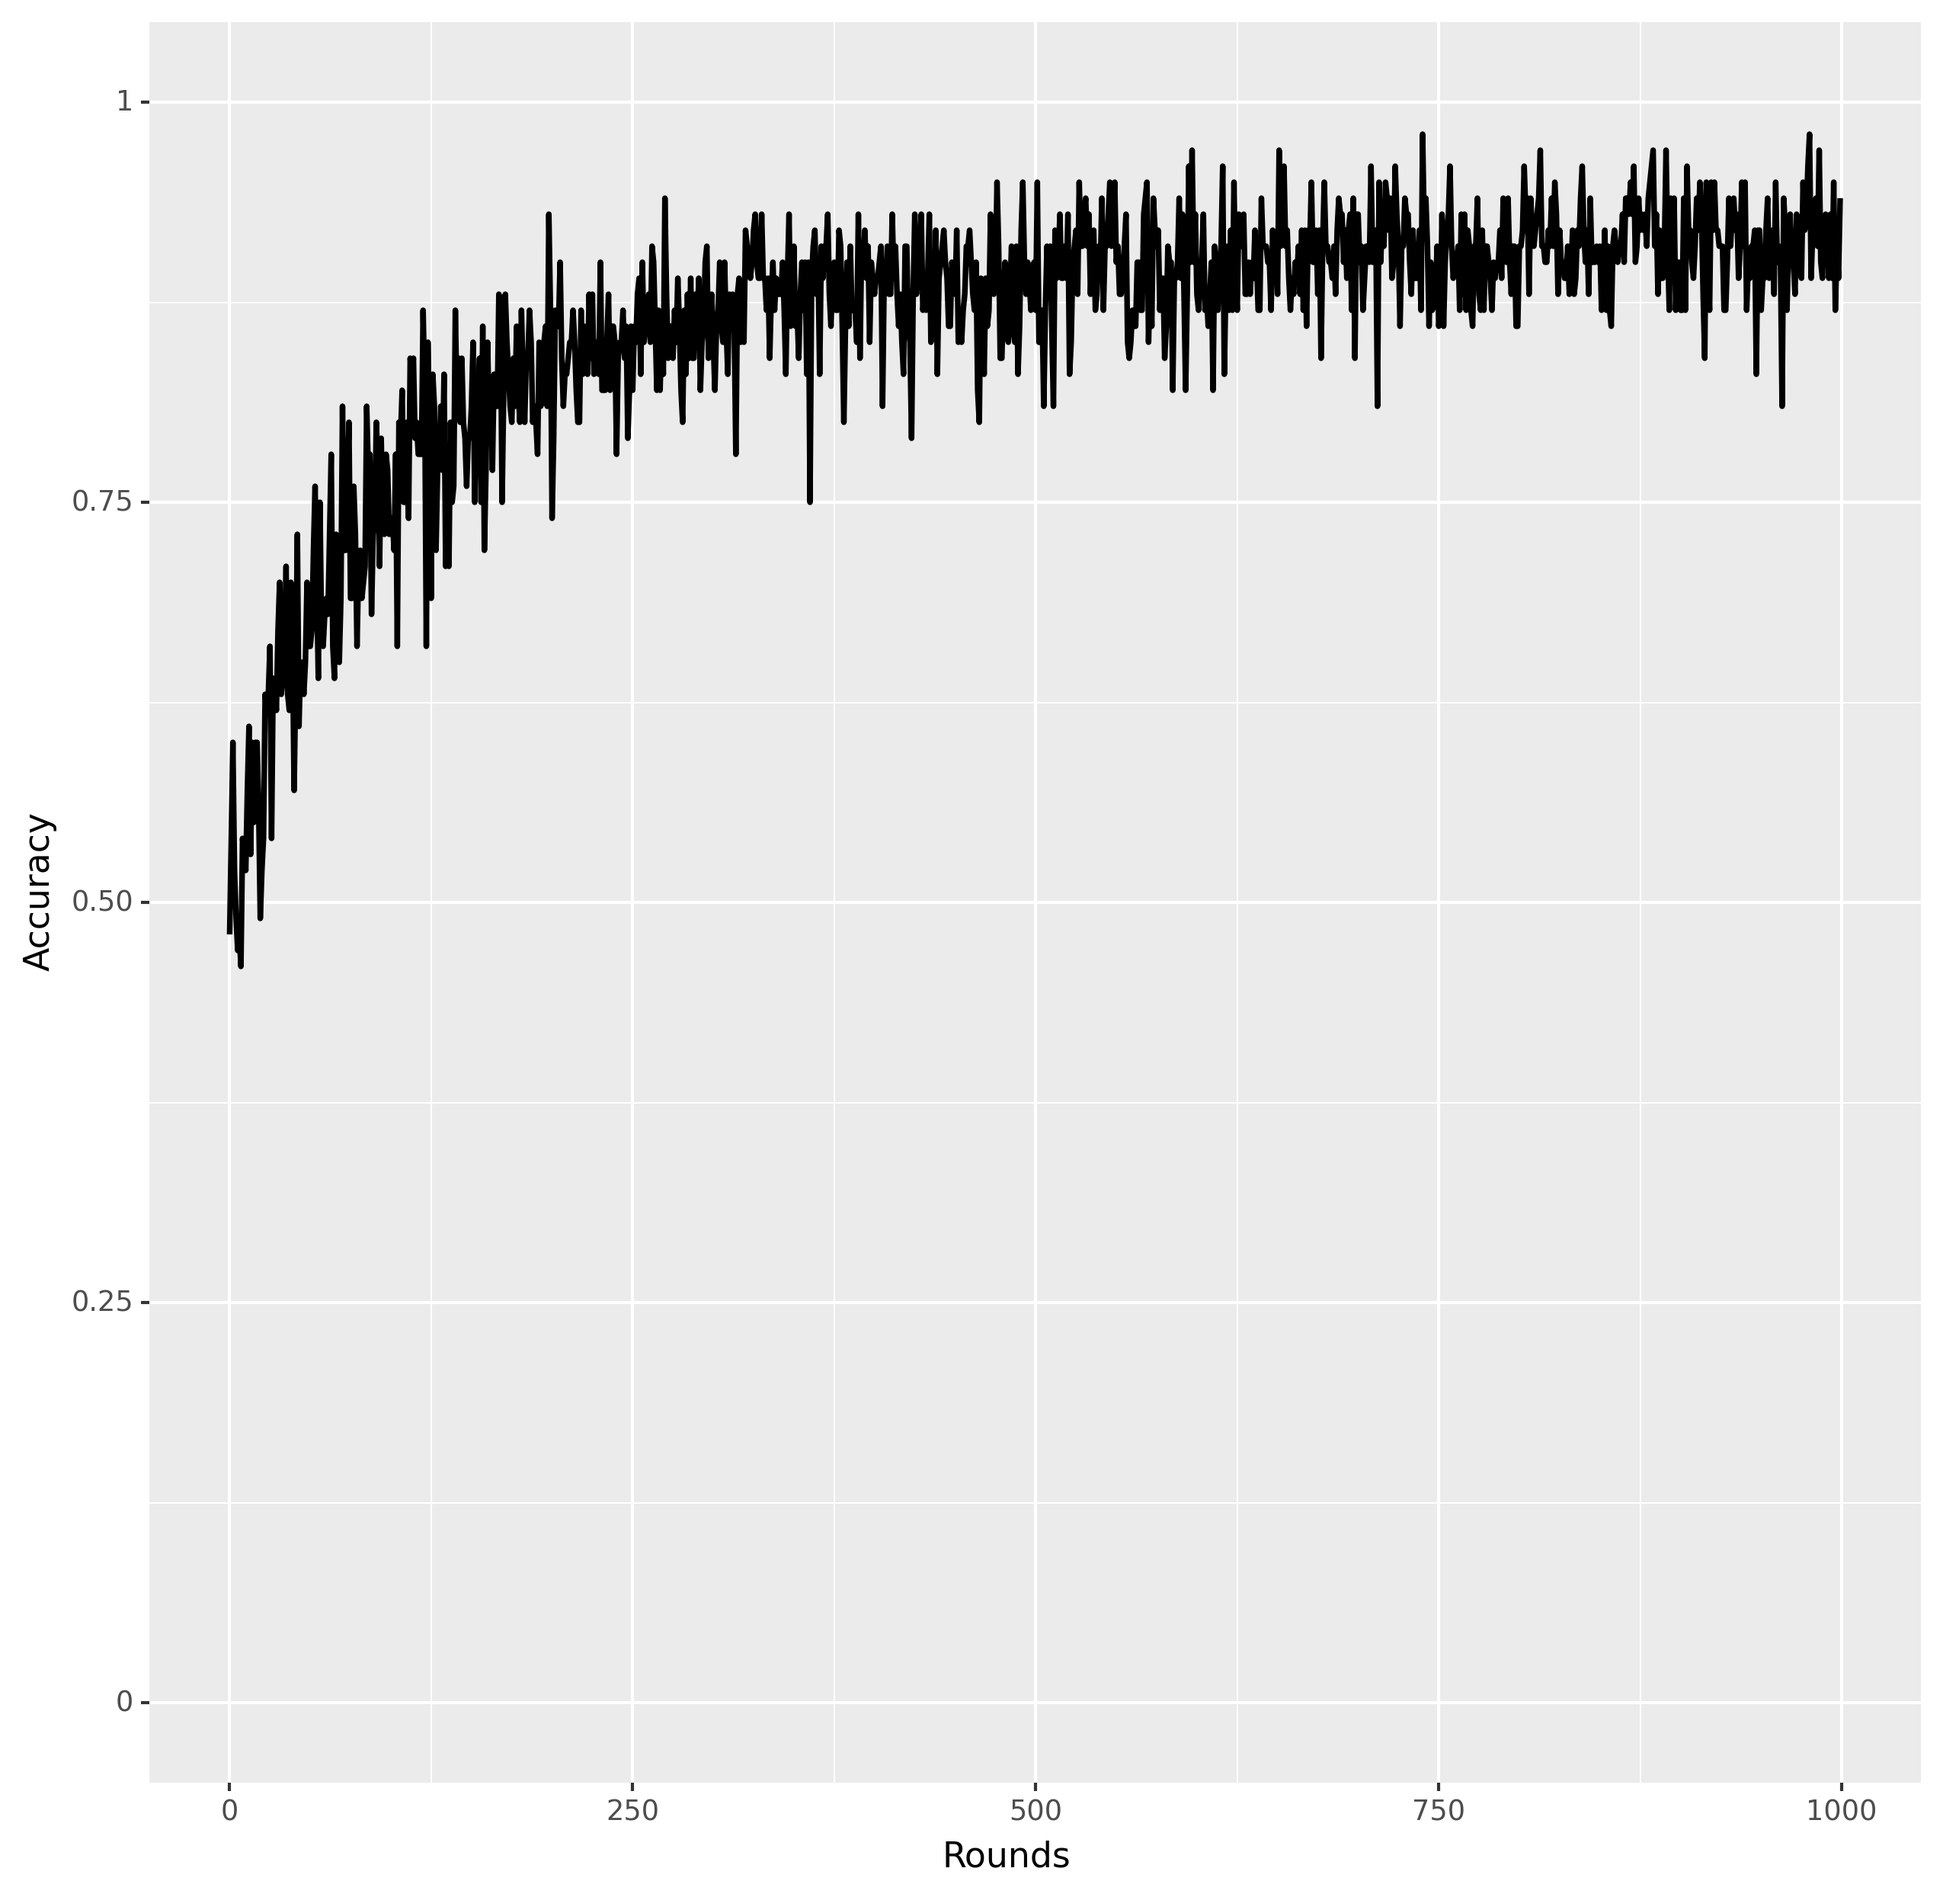
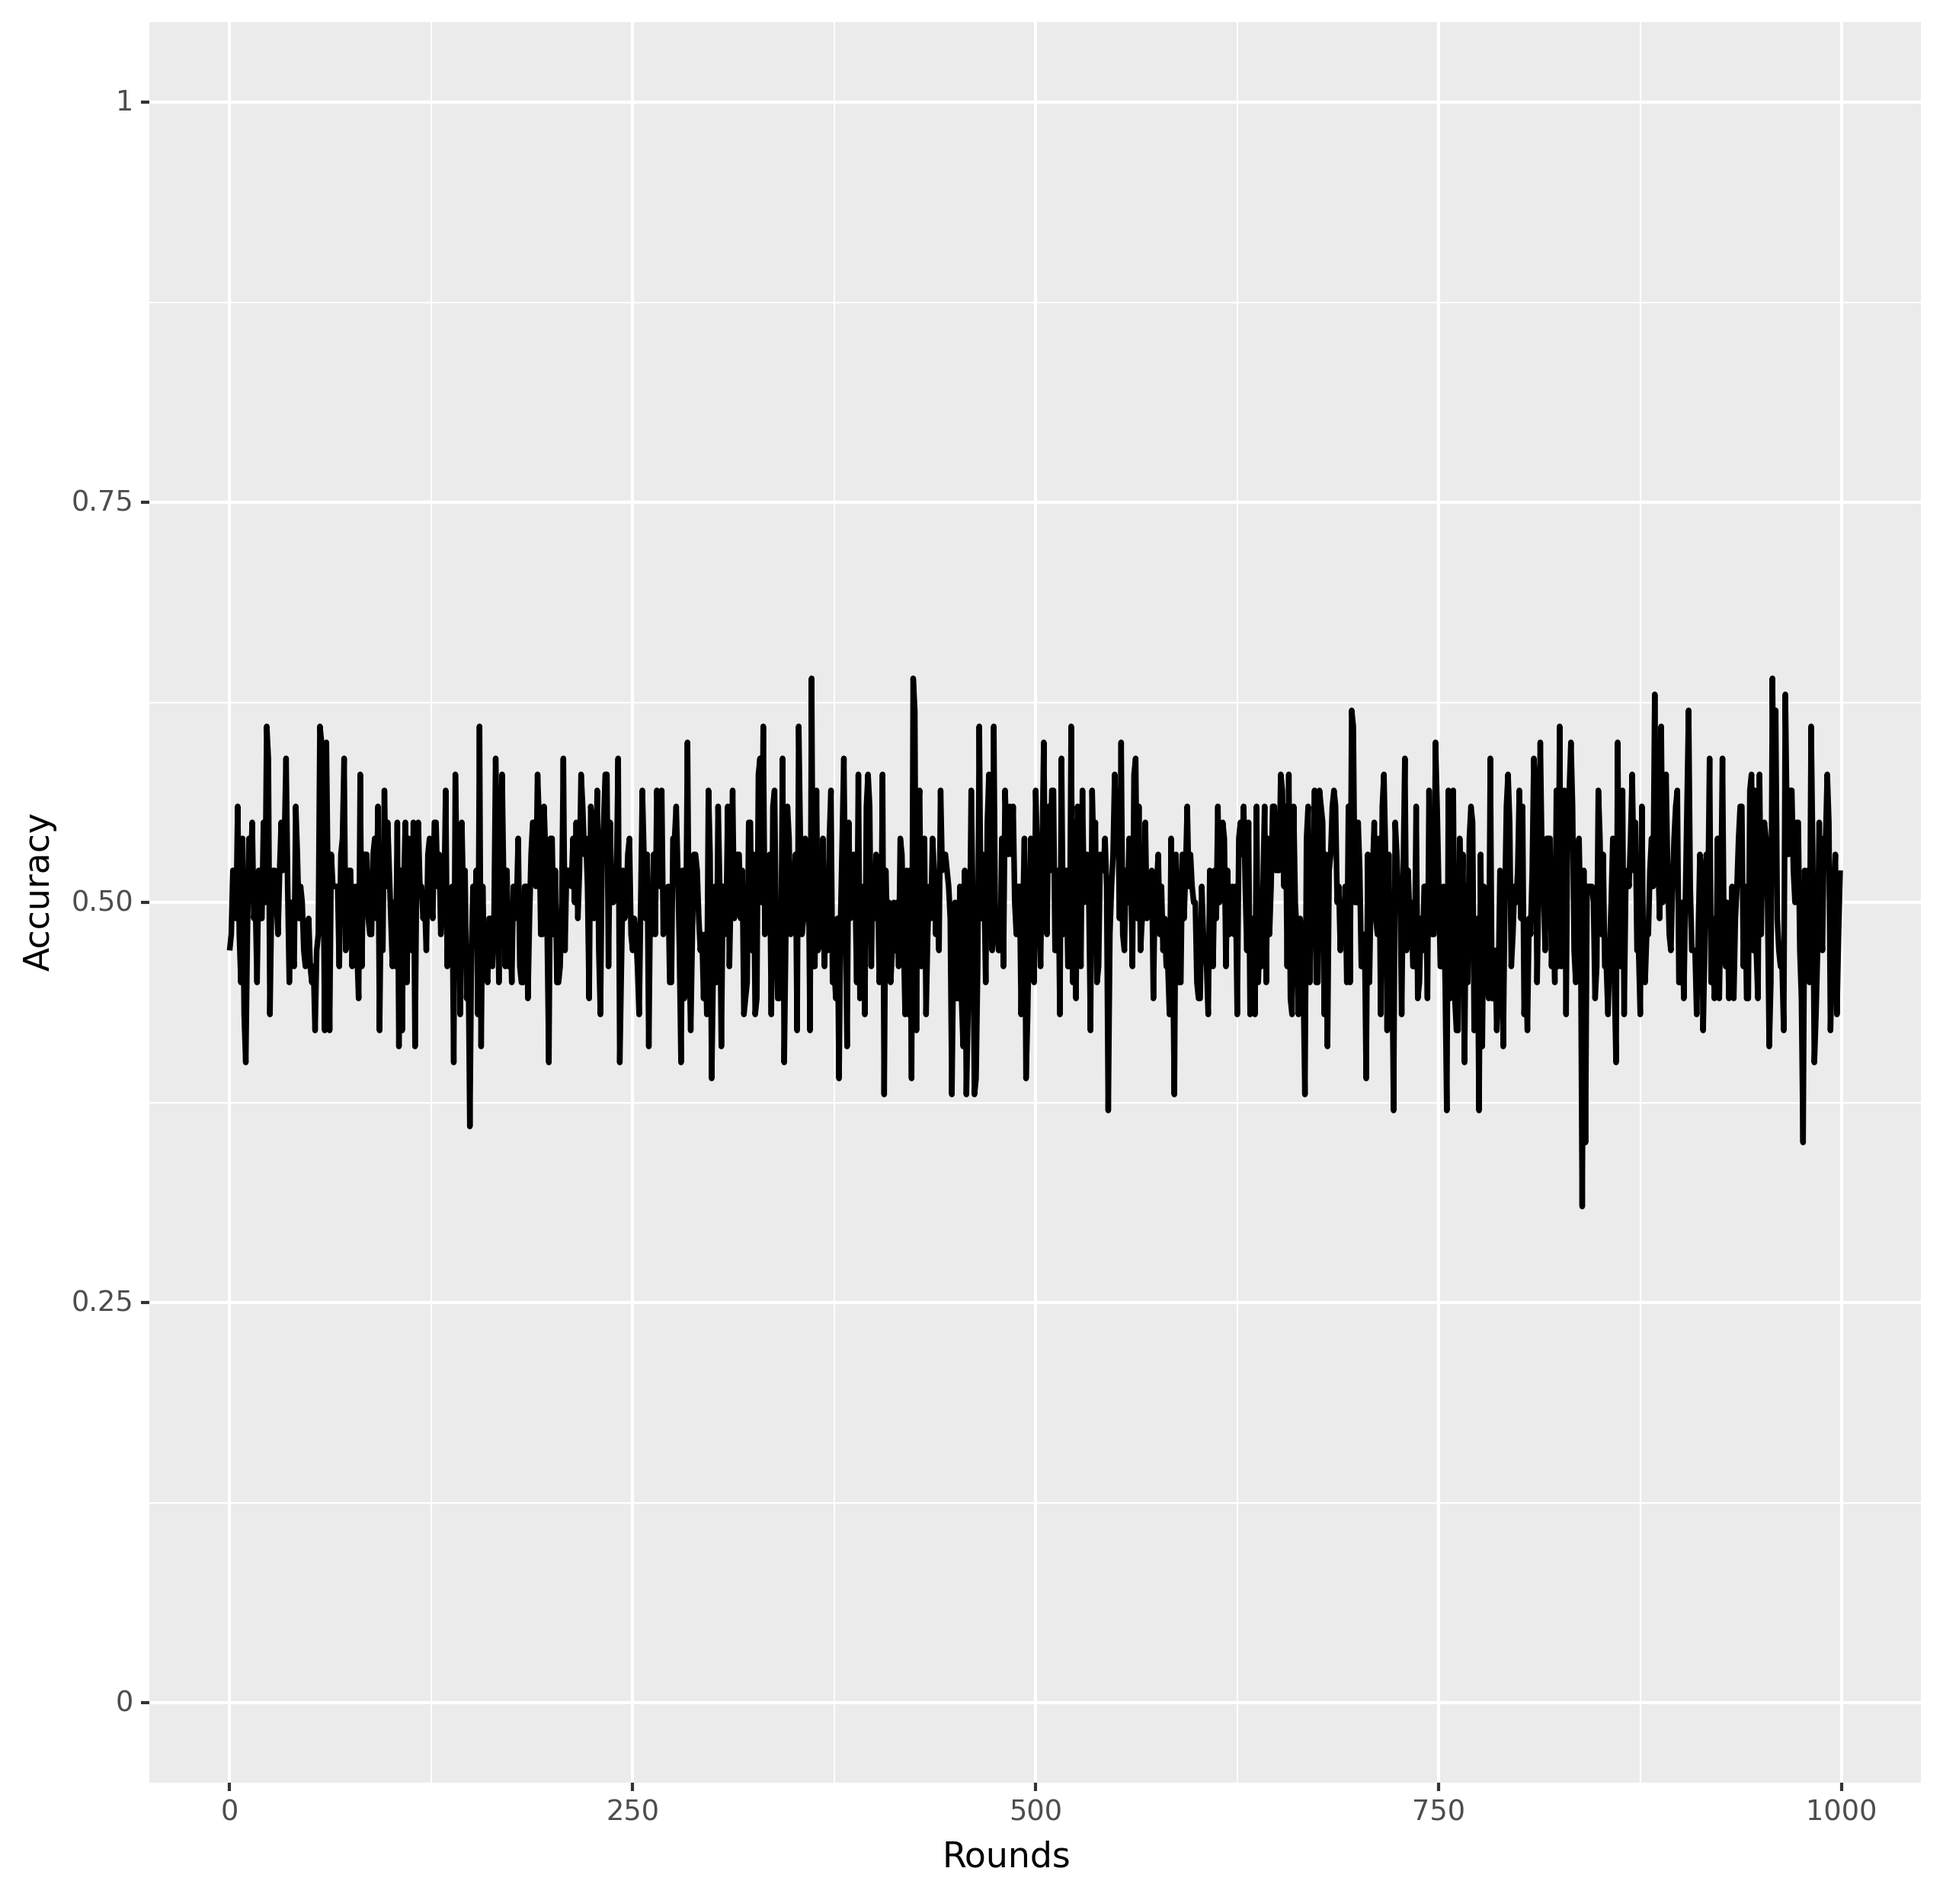
results better for NAND, but nothing else

Changed region(s): [[0.0929, 0.0619, 0.9604, 0.6187]]

diff --git a/src/main.py b/src/main.py
@@ -26,7 +26,7 @@ def main():
 
     # define learning problem
     # dataset = binary_data()
-    dataset = n_ary_data(n=input_size, connective=OR)
+    dataset = n_ary_data(n=input_size, connective=XOR)
 
     # initialize network and parameters
     net = SignalTree(input_size=input_size)
